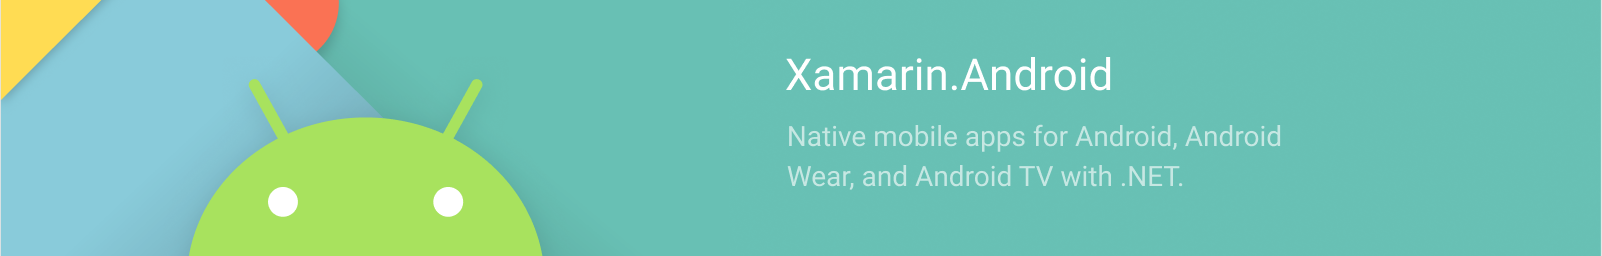
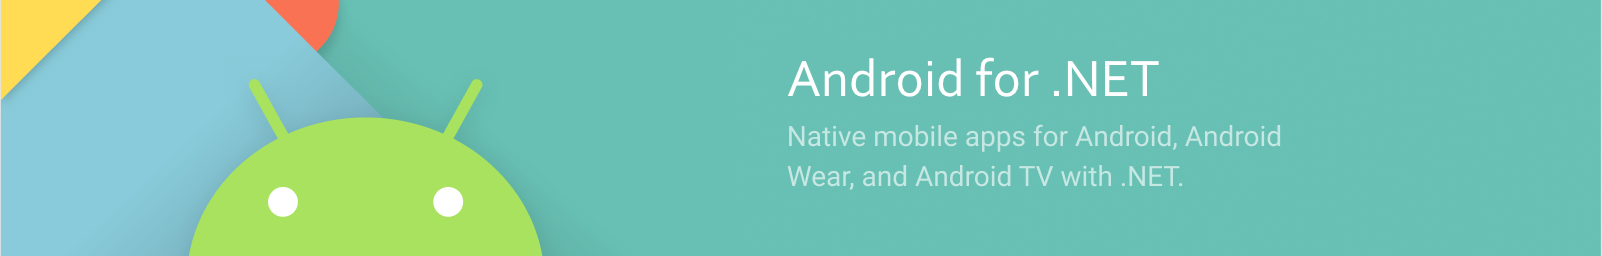
[readme] Update to emphasize .NET for Android. (#7404)

Changed region(s): [[0.4682, 0.2188, 0.7179, 0.375]]

diff --git a/README.md b/README.md
@@ -1,10 +1,11 @@
 <img src="Documentation/images/banner.png" alt="Xamarin.Android banner" height="145" >
 
-Xamarin.Android
+Android for .NET
 ===============
 
-Xamarin.Android provides open-source bindings of the Android SDK for use with
-.NET managed languages such as C#.
+`Android for .NET` provides open-source bindings of the Android SDK and tooling for use with
+.NET managed languages such as C#. This repository is also home to the classic `Xamarin.Android`
+product.
 
 # Build Status
 
@@ -21,6 +22,14 @@ Xamarin.Android provides open-source bindings of the Android SDK for use with
 # Downloads
 
 ## Current
+
+`Android for .NET` ships as a workload through the `dotnet` workload system in [.NET 6+][dotnet-download]. See
+the [workload documentation][workload-documentation] for installation commands.
+
+[dotnet-download]: https://dotnet.microsoft.com/en-us/download
+[workload-documentation]: https://learn.microsoft.com/en-us/dotnet/core/tools/dotnet-workload-install
+
+Classic `Xamarin.Android` installers are available here:
 
 | Platform        | Link   |
 |-----------------|--------|
